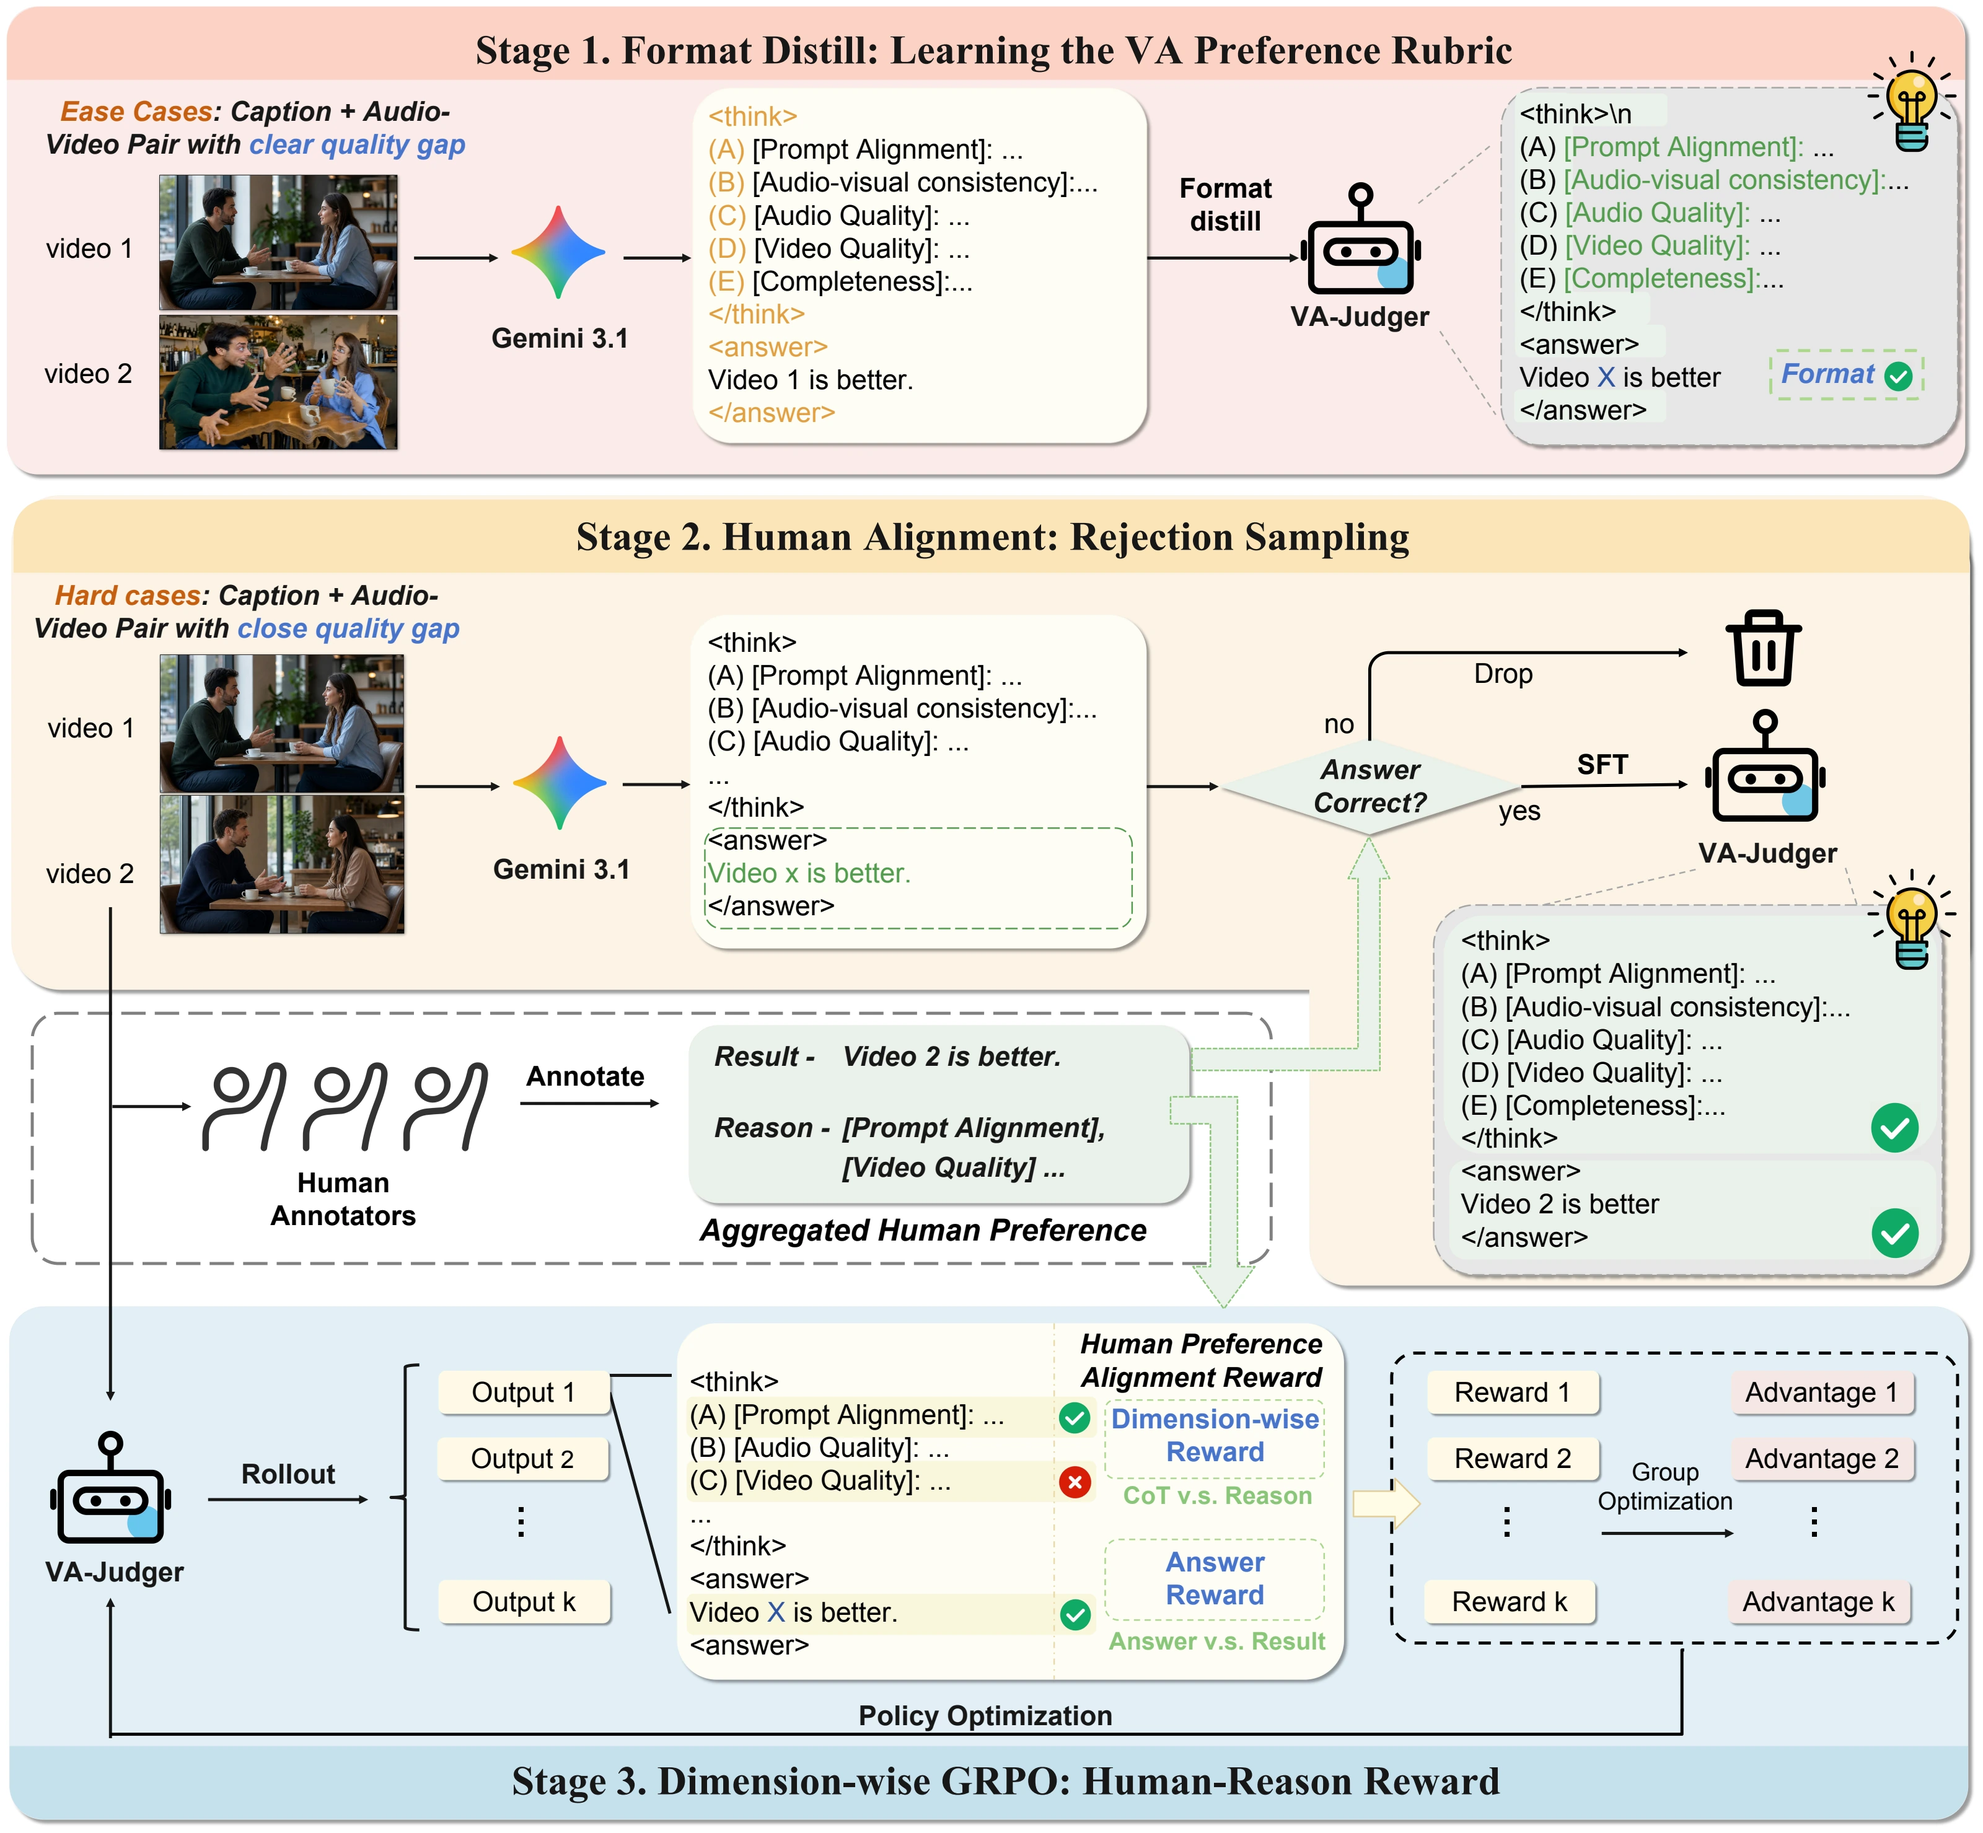
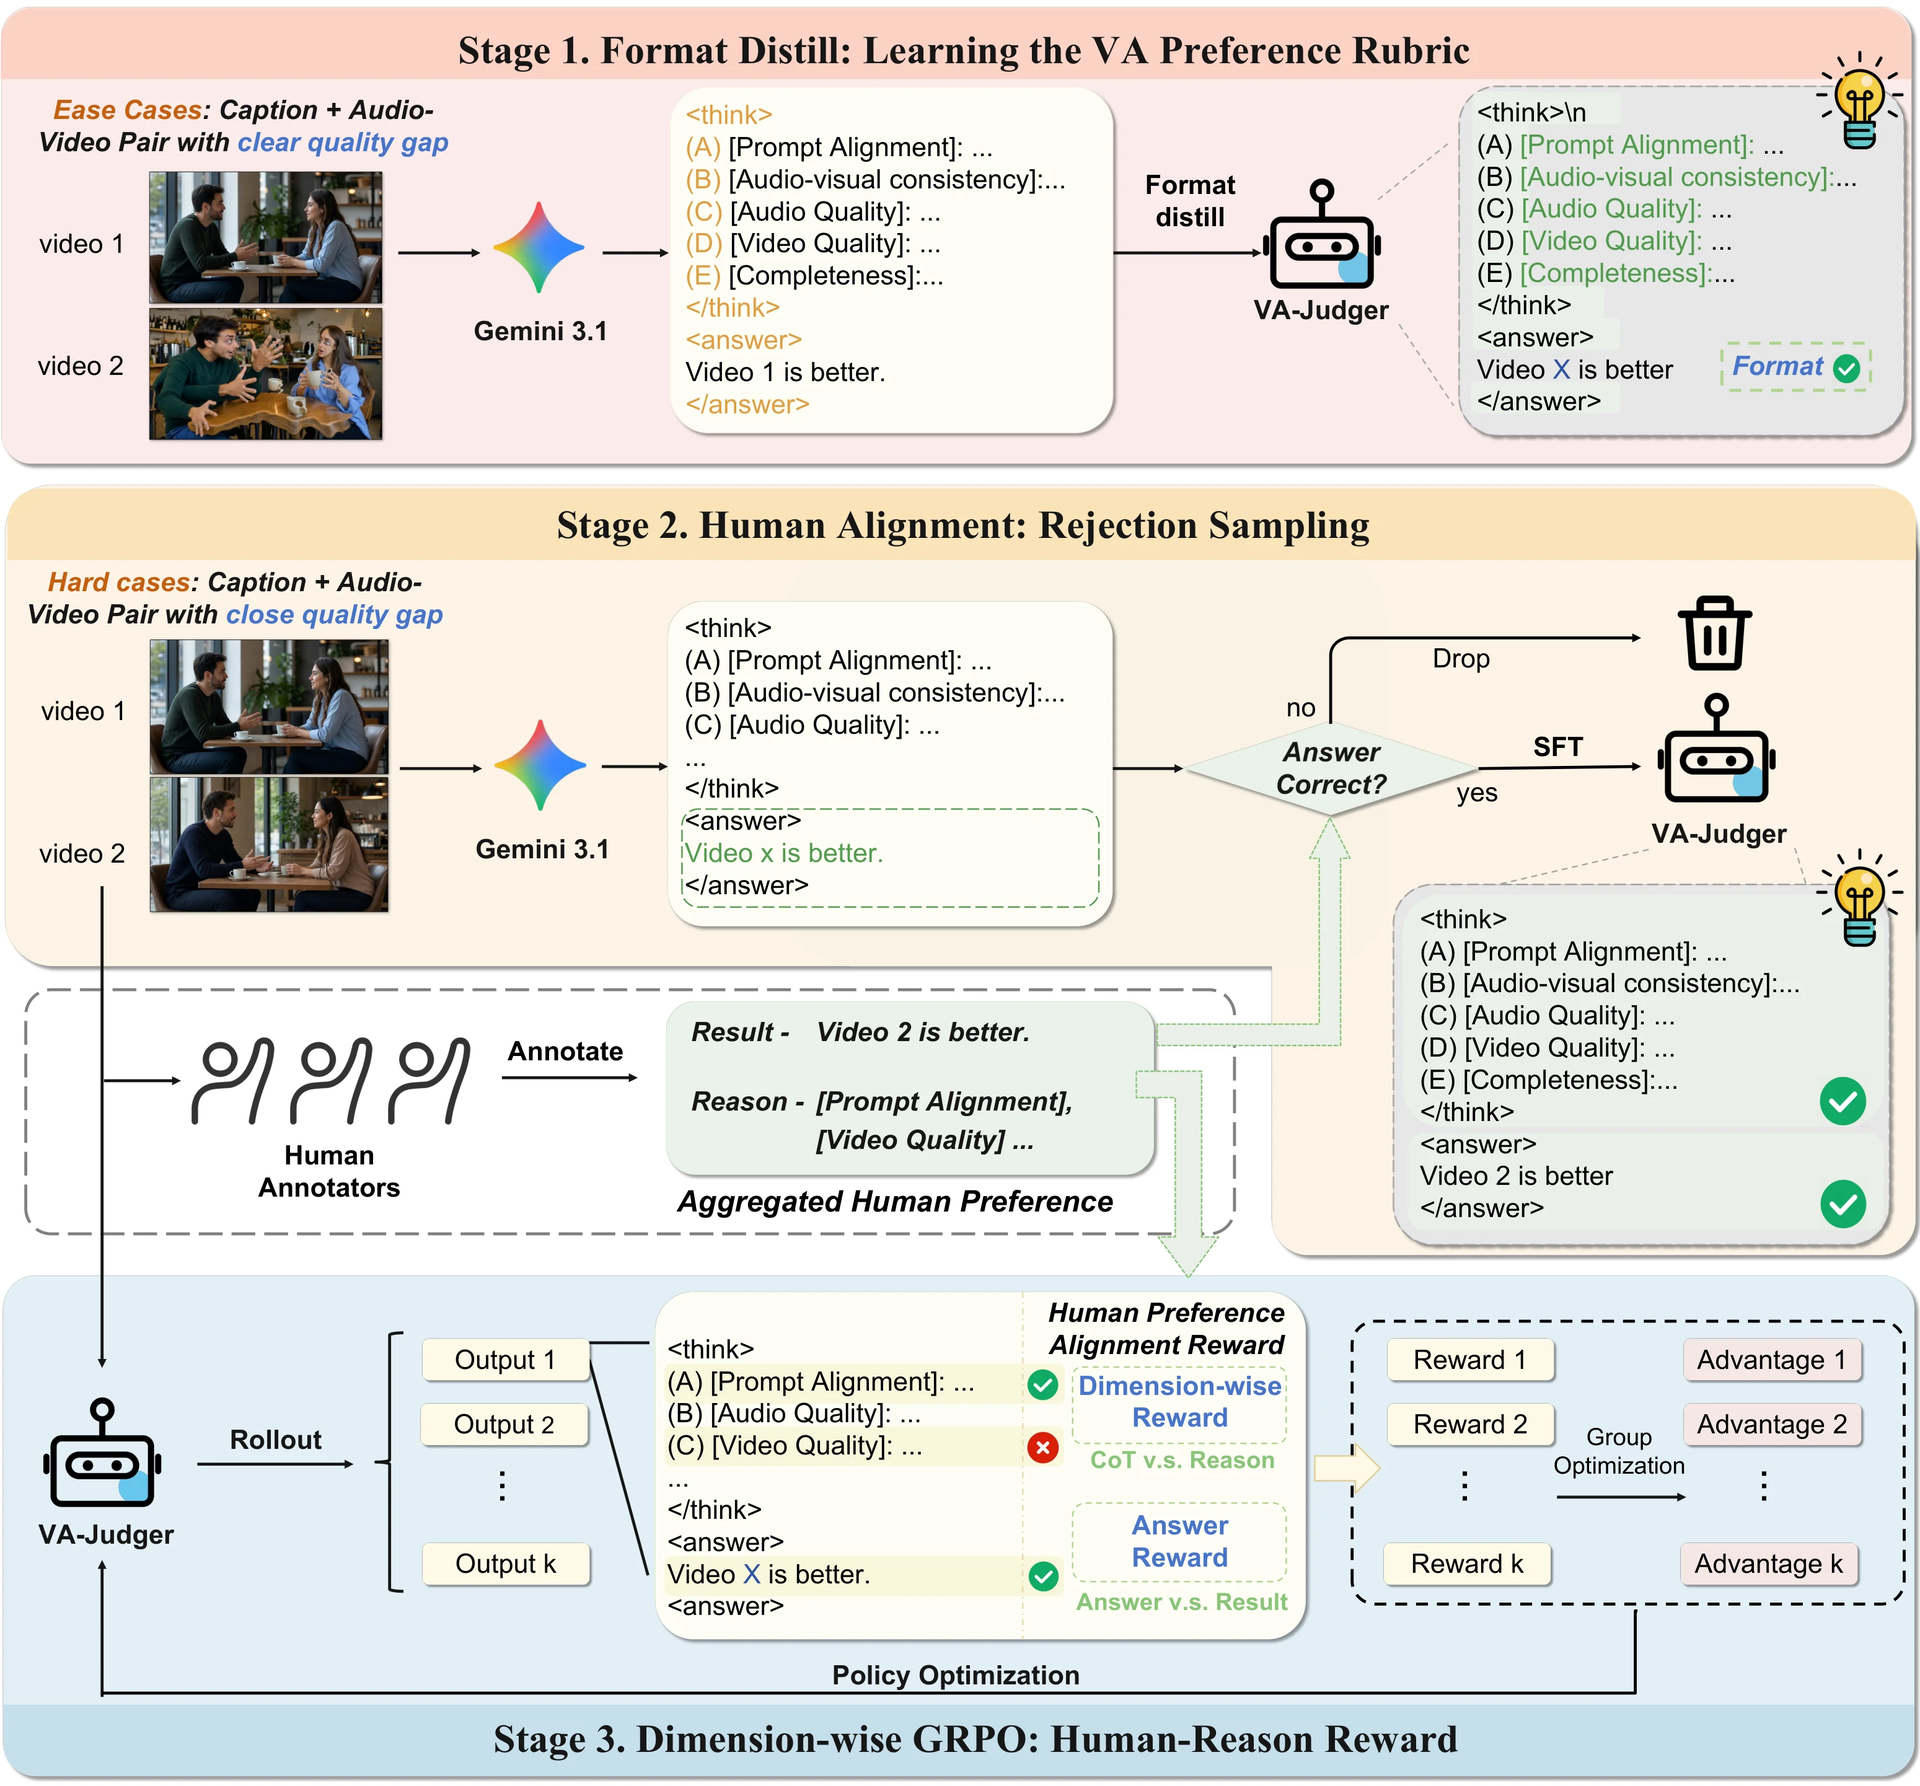
Update paper summary and pipeline figure

diff --git a/README.md b/README.md
@@ -44,7 +44,7 @@ The reward model compares two candidate audio-video generations for the same pro
 
 ## Abstract
 
-Using reinforcement learning to post-train joint video and audio generation models requires a reward signal. Existing methods construct this reward by combining metrics for individual quality dimensions, including audio quality, visual fidelity, and synchronization. However, these metrics evaluate perceptual dimensions separately and fail to capture the overall semantic and temporal coherence among the text prompt, video, and audio that shapes human preferences. Optimizing models against these metrics encourages reward hacking, generating video-audio content that achieves high scores on these metrics yet appears incoherent or unfaithful to human viewers. To address this problem, we first construct a large-scale human-preference dataset **VAPref-10K** for joint video-audio generation, comprising 9K prompts and 10.3K fine-grained paired comparisons from open-source generation models. We also introduce the **VA-Judger-Bench** benchmark with both in-domain and out-of-domain model comparisons to evaluate whether reward models truly align with human preferences. We further propose **VA-Judger**, a chain-of-thought omni-reward model for joint video-audio generation. In particular, VA-Judger first learns from pairs with clear quality gaps to establish structured output and coarse preference discrimination, then distills reliable preference explanations for harder near-quality comparisons via rejection sampling verified against human annotations, and finally performs dimension-wise reinforcement learning that decomposes human feedback into individual quality dimensions for denser reward signals than a single binary preference label. Experiments show that VA-Judger outperforms metric baselines in predicting human preferences on both in-domain and out-of-domain evaluations. Using its human-aligned rewards for post-training audio-video generation models also yields significant improvements in generation quality.
+Using reinforcement learning to post-train joint video-audio generation models requires a reward signal. Existing methods construct this reward by combining metrics for individual quality dimensions, including audio quality, visual fidelity, and synchronization. However, these metrics evaluate perceptual dimensions separately and fail to capture the overall semantic and temporal coherence among the text prompt, video, and audio that shapes human preferences. More critically, they are poorly aligned with actual human judgments. Optimizing models against these metrics encourages reward hacking, generating video-audio content that achieves high scores on these metrics yet appears incoherent or unfaithful to human viewers. To address this problem, we first construct **VAPref-10K** for joint video-audio generation, comprising 9K prompts and 10.3K fine-grained paired comparisons from generation models. We also introduce the **VA-Judger-Bench** benchmark with both in-domain and out-of-domain model comparisons to evaluate whether reward models truly align with human preferences. We further propose **VA-Judger**, a chain-of-thought omni-reward model for joint video-audio generation. VA-Judger first learns from pairs with clear quality gaps, then distills format-valid responses for harder near-quality comparisons through rejection sampling verified against human annotations, and finally performs dimension-wise reinforcement learning for denser reward signals. Experiments show that VA-Judger outperforms metric baselines in predicting human preferences on both in-domain and out-of-domain evaluations. Using its human-aligned rewards to post-train an audio-video generation model also improves most automatic metrics and human preference.
 
 ## Generation Demos
 
